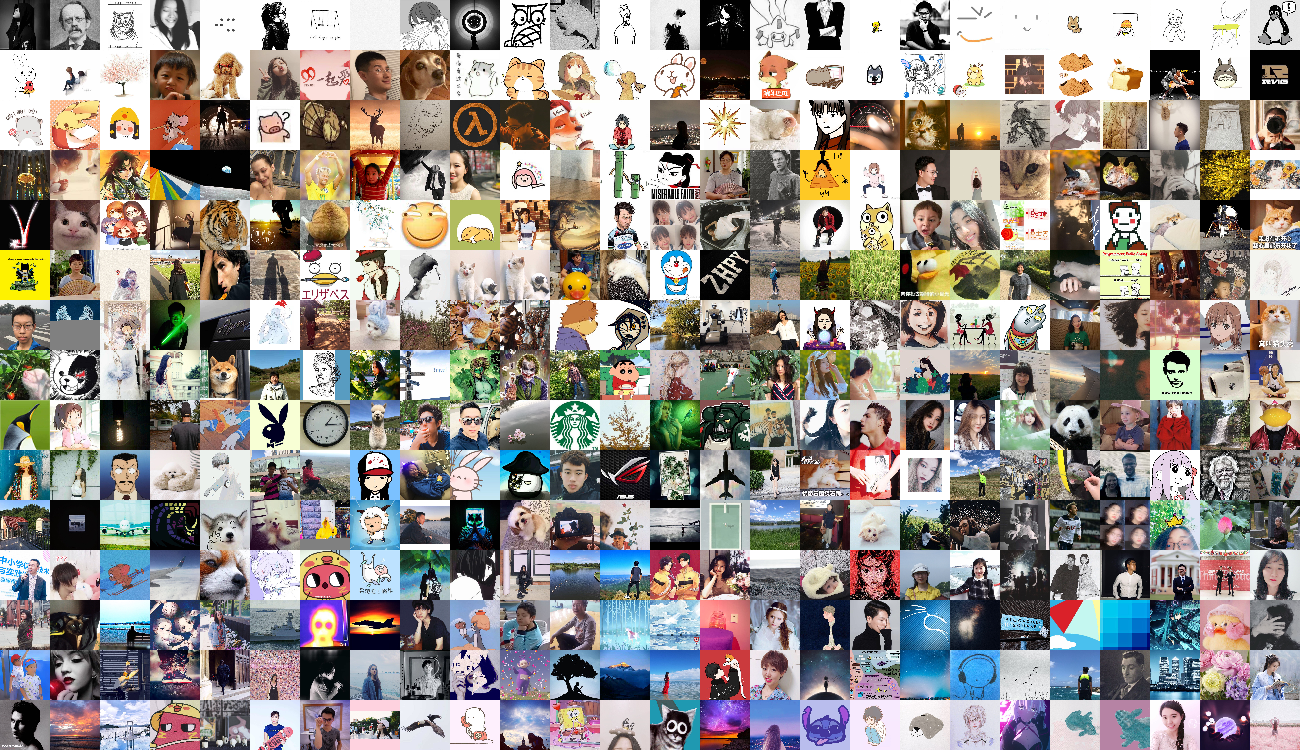
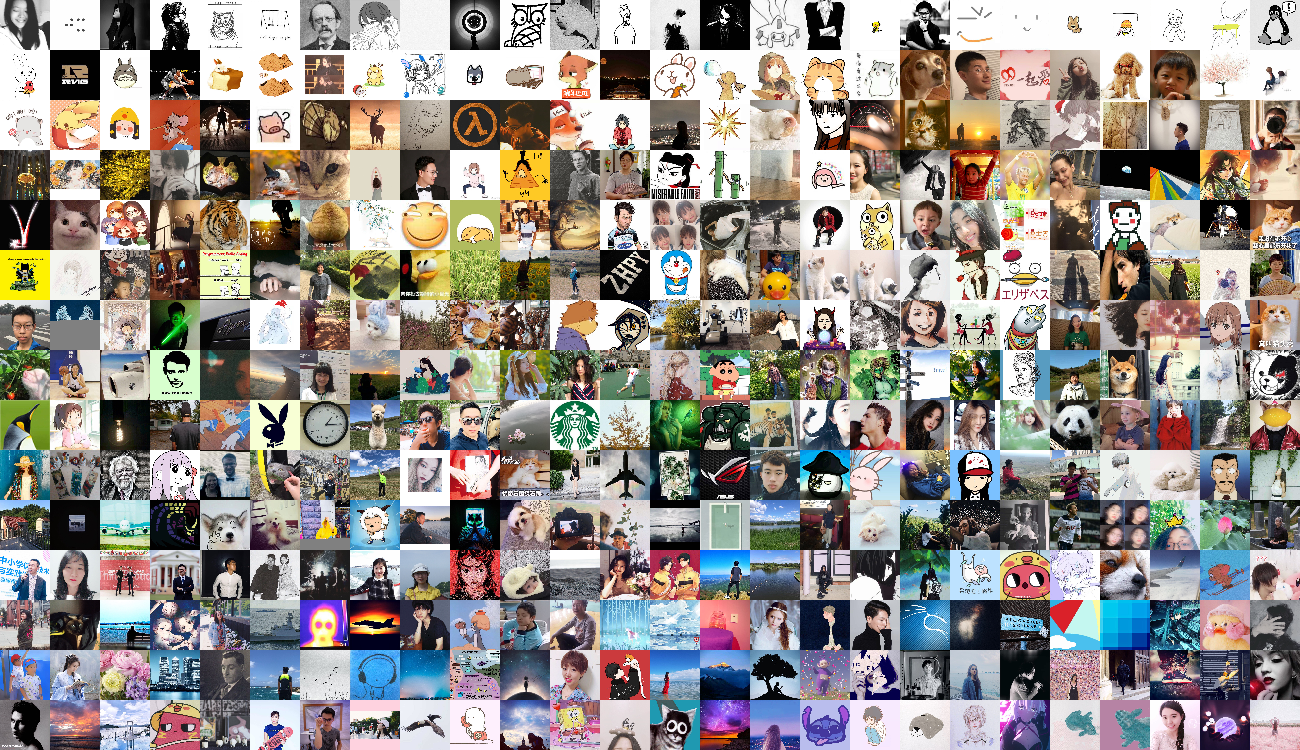
Chatroom image download

diff --git a/make_img.py b/make_img.py
@@ -52,14 +52,16 @@ def rand(img):
 
 if __name__ == "__main__":
     parser = argparse.ArgumentParser()
-    parser.add_argument("--pic_path", help="Path to the downloaded head images", default="img", type=str)
+    parser.add_argument("--path", help="Path to the downloaded head images", default="img", type=str)
+    parser.add_argument("--out", help="The name of the output image", default="", type=str)
     parser.add_argument("--size", help="Size of each image in pixels", type=int, default=100)
     parser.add_argument("--ratio", help="Aspect ratio", nargs='+', type=int, default=[16, 9])
     parser.add_argument("--sort", help="Sort method",
-                        choices=["bgr", "bgr_sum", "av_hue", "av_sat", "lum", "lab", "rand",
+                        choices=["none", "bgr", "bgr_sum", "av_hue", "av_sat", "lum", "lab", "rand",
                                  "pca_bgr", "pca_hsv", "pca_lab"],
                         type=str, default="bgr_sum")
-    parser.add_argument("--rev_row", help="Whether to use the S-shaped alignment", type=bool, default=True)
+    parser.add_argument("--rev_row", help="Whether to use the S-shaped alignment", action="store_true")
+    parser.add_argument("--rev_sort", help="Sort in the reverse direction", action="store_true")
 
     args = parser.parse_args()
 
@@ -67,7 +69,7 @@ if __name__ == "__main__":
     ratio = tuple(args.ratio)
     rw, rh = ratio
 
-    pic_path = args.pic_path
+    pic_path = args.path
     files = list(os.walk(pic_path))[0][-1]
     try:
         files.remove("cache.pkl")
@@ -80,7 +82,7 @@ if __name__ == "__main__":
 
     possible_wh = []
     print("Calculating grid size...")
-    for width in range(rw, num_friends):
+    for width in range(1, num_friends):
         height = num_friends // width
         possible_wh.append((width, height))
 
@@ -91,41 +93,35 @@ if __name__ == "__main__":
 
     result_grid = best_wh
 
-    sorted_imgs = []
+    imgs = []
+    for i, img_file in tqdm(enumerate(files), total=len(files), desc="[Reading images]", unit="imgs"):
+        try:
+            img = cv2.resize(cv2.imread(os.path.join(pic_path, img_file)), img_size, interpolation=cv2.INTER_CUBIC)
+        except:
+            img = np.zeros((img_size[0], img_size[1], 3), dtype=np.uint8)
+        imgs.append(img)
+
+    print("Sorting images...")
     if args.sort.startswith("pca_"):
-        sort_key = eval(args.sort[args.sort.find('_') + 1:])
+        sort_function = eval(args.sort[args.sort.find('_') + 1:])
         from sklearn.decomposition import PCA
 
         pca = PCA(1)
-        imgs = []
-        for i, img_file in tqdm(enumerate(files), total=len(files), desc="[Reading images]", unit="imgs"):
-            try:
-                img = cv2.resize(cv2.imread(os.path.join(pic_path, img_file)), img_size, interpolation=cv2.INTER_CUBIC)
-            except:
-                img = np.zeros((img_size[0], img_size[1], 3), dtype=np.uint8)
-            sorted_imgs.append(sort_key(img))
-            imgs.append(img)
-
-        one_d_repr = pca.fit_transform(sorted_imgs)[:, 0]
-        sorted_imgs = np.array(imgs)[np.argsort(one_d_repr)]
-
+        img_keys = pca.fit_transform(np.array(list(map(sort_function, imgs))))[:, 0]
+    elif args.sort == "none":
+        img_keys = np.array(list(range(0, num_friends)))
     else:
-        sort_key = eval(args.sort)
+        sort_function = eval(args.sort)
+        img_keys = np.array(list(map(sort_function, imgs)))
 
-        for i, img_file in tqdm(enumerate(files), total=len(files), desc="[Reading images]", unit="imgs"):
-            try:
-                img = cv2.resize(cv2.imread(os.path.join(pic_path, img_file)), img_size, interpolation=cv2.INTER_CUBIC)
-            except:
-                img = np.zeros((img_size[0], img_size[1], 3), dtype=np.uint8)
-            sorted_imgs.append((img, sort_key(img)))
+    sorted_imgs = np.array(imgs)[np.argsort(img_keys)]
+    if args.rev_sort:
+        sorted_imgs = list(reversed(sorted_imgs))
 
-        sorted_imgs.sort(key=lambda x: x[1])
-        sorted_imgs = [a for a, b in sorted_imgs]
-
-    for i in tqdm(range(result_grid[1]), desc="[Processing]", unit="imgs"):
-        img_f = sorted_imgs[i * result_grid[0]]
+    for i in tqdm(range(result_grid[1]), desc="[Merging]", unit="imgs"):
         if rev and i % 2 == 1:
-            for j in range(result_grid[0] - 1, 0, -1):
+            img_f = sorted_imgs[(i + 1) * result_grid[0] - 1]
+            for j in range(result_grid[0] - 2, -1, -1):
                 img_t = sorted_imgs[i * result_grid[0] + j]
                 img_f = np.append(img_f, img_t, axis=1)
             if i == 0:
@@ -133,6 +129,7 @@ if __name__ == "__main__":
             else:
                 combined_img = np.append(combined_img, img_f, axis=0)
         else:
+            img_f = sorted_imgs[i * result_grid[0]]
             for j in range(1, result_grid[0]):
                 img_t = sorted_imgs[i * result_grid[0] + j]
                 img_f = np.append(img_f, img_t, axis=1)
@@ -140,5 +137,7 @@ if __name__ == "__main__":
                 combined_img = img_f
             else:
                 combined_img = np.append(combined_img, img_f, axis=0)
-
-    cv2.imwrite('result-{}.png'.format(args.sort), combined_img)
+    if len(args.out) == 0:
+        cv2.imwrite('result-{}.png'.format(args.sort), combined_img)
+    else:
+        cv2.imwrite(args.out, combined_img)

diff --git a/extract_img.py b/extract_img.py
@@ -10,28 +10,72 @@ import concurrent.futures
 import time
 from tqdm import tqdm
 from math import ceil
+import argparse
 
 
-def download(args):
-    user_name, image_id = args
-    itchat.get_head_img(userName=user_name, picDir='img/%d.png' % image_id)
+def download_friend(args):
+    user_name, image_id, download_dir = args
+    itchat.get_head_img(userName=user_name, picDir=os.path.join(download_dir, '%d.png' % image_id))
     return args
 
 
+def download_chatroom_member(args):
+    global chatroom
+    user_name, image_id, download_dir = args
+    itchat.get_head_img(userName=user_name, chatroomUserName=chatroom['UserName'],
+                        picDir=os.path.join(download_dir, '%d.png' % image_id))
+    return args
+
+
+def get_chatroom_by_name(name, chatrooms):
+    for chatroom in chatrooms:
+        if chatroom['NickName'] == name:
+            return chatroom
+
+
 if __name__ == "__main__":
-    # 登陆
-    print("Logging in...")
-    itchat.auto_login(hotReload=True)
+    parser = argparse.ArgumentParser()
+    parser.add_argument("--dir", default="img", type=str, help="Folder to store the downloaded images")
+    parser.add_argument("--type", type=str, choices=["self", "chatroom"], default="self")
+    parser.add_argument("--name", type=str, help="Specify the chatroom name if type=chatroom")
 
-    # 获取通讯录列表
-    print("Loading contact...")
-    friends = itchat.get_friends(update=True)
+    args = parser.parse_args()
+    download_dir = args.dir
 
-    if not os.path.isdir('img'):
-        os.mkdir('img')
+    if args.type == "self":
+        print("Logging in...")
+        itchat.auto_login(hotReload=True)
 
-    if os.path.isfile("img/cache.pkl"):
-        downloaded = pickle.load(open("img/cache.pkl", "rb"))
+        print("Loading contact...")
+        friends = itchat.get_friends(update=True)
+        download = download_friend
+
+    elif args.type == "chatroom":
+        assert len(args.name) > 0, "You must provide a chatroom name!"
+        print("Logging in...")
+        itchat.auto_login(hotReload=True)
+
+        print("Getting chatrooms...")
+        chatrooms = itchat.get_chatrooms(update=True)
+        chatroom = get_chatroom_by_name(args.name, chatrooms)
+        assert chatroom is not None, "Chatroom \"{}\" not found".format(args.name)
+
+        print("Updating chatroom...")
+        itchat.update_chatroom(chatroom['UserName'], True)
+
+        # fetch the chatroom data again
+        chatroom = get_chatroom_by_name(args.name, itchat.get_chatrooms())
+
+        friends = chatroom['MemberList']
+        download = download_chatroom_member
+    else:
+        raise Exception("Invalid argument")
+
+    if not os.path.isdir(download_dir):
+        os.mkdir(download_dir)
+
+    if os.path.isfile(os.path.join(download_dir, "cache.pkl")):
+        downloaded = pickle.load(open(os.path.join(download_dir, "cache.pkl"), "rb"))
         assert type(downloaded) == dict
     else:
         downloaded = {}
@@ -52,16 +96,16 @@ if __name__ == "__main__":
         counter = 0
         for friend in friends:
             if not friend['UserName'] in downloaded:
-                f.append(pool.submit(download, (friend['UserName'], available_numbers[counter])))
+                f.append(pool.submit(download, (friend['UserName'], available_numbers[counter], download_dir)))
                 counter += 1
 
         start_time = time.clock()
         for i, future in tqdm(enumerate(f), total=len(f), desc="[Downloading images]", unit="imgs"):
             try:
                 if time.clock() - start_time > max_wait_time:
-                    user_name, idx = future.result(0)
+                    user_name, idx, _ = future.result(0)
                 else:
-                    user_name, idx = future.result(ceil(max_wait_time - time.clock() + start_time))
+                    user_name, idx, _ = future.result(ceil(max_wait_time - time.clock() + start_time))
                 downloaded[user_name] = idx
             except concurrent.futures.TimeoutError:
                 print("\nTimeout when downloading the head image of", friends[available_numbers[i]]['NickName'])
@@ -70,7 +114,7 @@ if __name__ == "__main__":
             print("Warning: Failed to downlodad some of the images")
             print("Retrying...")
 
-        pickle.dump(downloaded, open("img/cache.pkl", "wb"))
+        pickle.dump(downloaded, open(os.path.join(download_dir, "cache.pkl"), "wb"))
 
     print("Success")
     exit(0)
